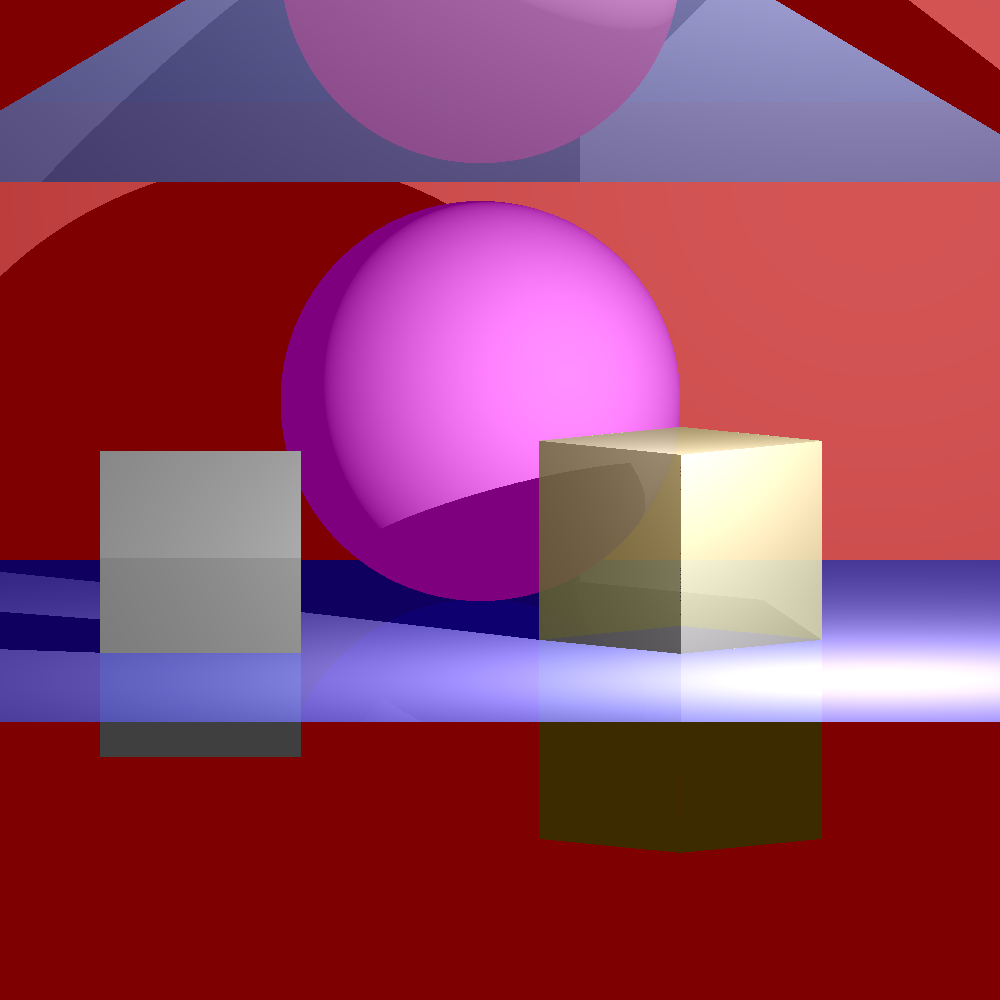
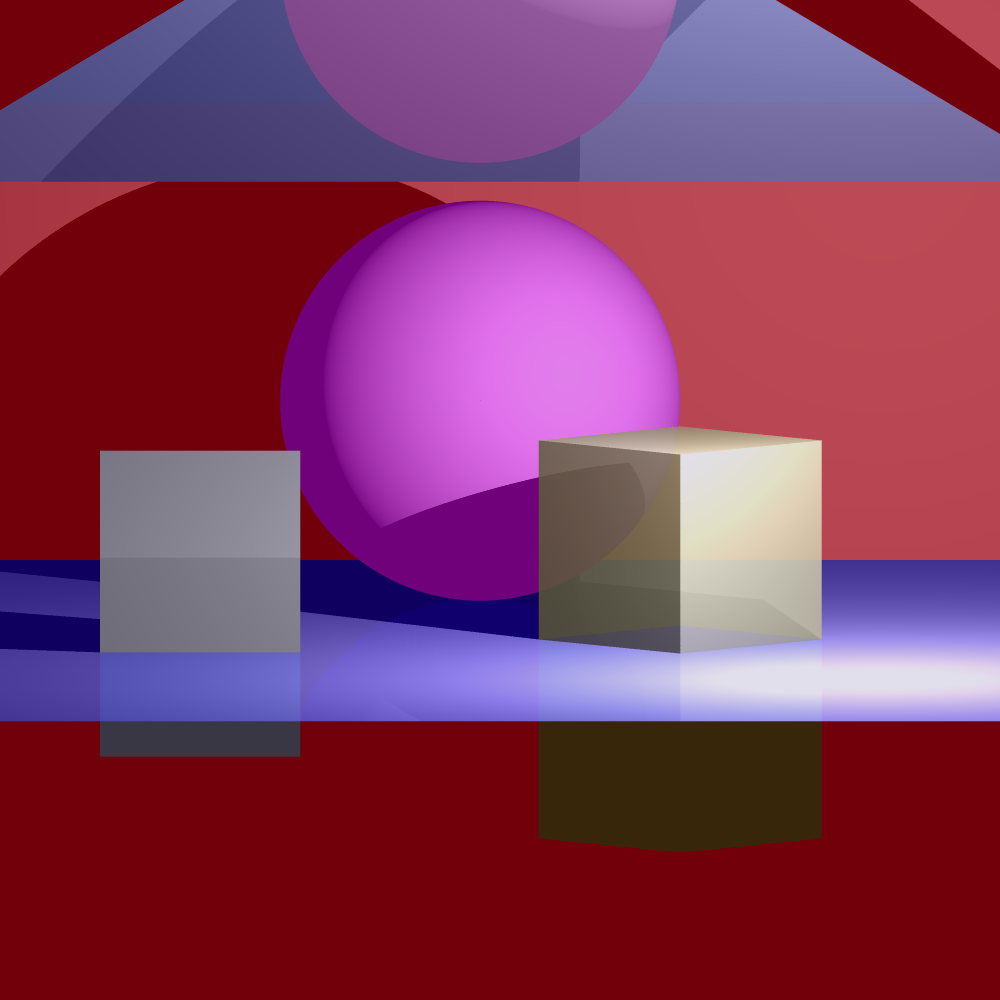
More images and some fixes to anti aliasing

Changed region(s): [[0.372, 0.155, 1.0, 0.713], [0.899, 0.0, 1.0, 0.062]]

diff --git a/src/main.cpp b/src/main.cpp
@@ -19,7 +19,7 @@ int main (int argc, char **argv) {
 
     // Setup the display and get the buffer
     Display* display = Display::getInstance();
-    display->init(1000, 1000);
+    display->init(500, 500);
     unsigned char* buf = display->getBuffer();
 
 
@@ -77,6 +77,30 @@ int main (int argc, char **argv) {
 
     // Specify the camera. Currently commenting/uncommenting 
     // until we get something more fancy
+    //
+
+    /*
+    PerspectiveCamera cam = PerspectiveCamera(
+        Vector3f(0, 5, -5),
+        Vector3f(0, 1.0, 0),
+        Vector3f(1.0, 0, 0),
+        Vector2f(25.0, 25.0),
+        Vector2f(display->getWidth(), display->getHeight()),
+        Vector3f(0, 5, -25)
+    );
+    */
+
+    PerspectiveCamera cam = PerspectiveCamera(
+        Vector3f(-10, 5, -5),
+        Vector3f(0, 1.0, 0),
+        Vector3f(1.0, 0, -1),
+        Vector2f(15.0, 15.0),
+        Vector2f(display->getWidth(), display->getHeight()),
+        Vector3f(-30, 5, -25)
+    );
+
+    /*
+    // Other angle
     PerspectiveCamera cam = PerspectiveCamera(
         Vector3f(10, 5, -5),
         Vector3f(0, 1.0, 0),
@@ -85,6 +109,7 @@ int main (int argc, char **argv) {
         Vector2f(display->getWidth(), display->getHeight()),
         Vector3f(30, 5, -25)
     );
+    */
     
     /*
     OrthoCamera cam = OrthoCamera(
@@ -109,7 +134,7 @@ int main (int argc, char **argv) {
 
         // If we have an anti aliaser, loop across all the rays from it, and do an intersection test
         // Otherwise just do it for the main ray
-        if(false) {
+        if(true) {
             for(anti_aliaser = new GridAntiAliaser(&it, 3); !anti_aliaser->isDone(); ++(*anti_aliaser)) {
                 IntersectData hit = renderRay(**anti_aliaser, &scene, 3);
                 count += 1;
@@ -131,10 +156,11 @@ int main (int argc, char **argv) {
             printf("%.3f\%\n",  i * 100.0 / (display->getWidth() * display->getHeight()));
     }
 
+    // Write to a PNG for handing
+    display->writeToPNG("images/mp1/anti_aliased.png");
+
     // Display the image
     display->run();
-    // Write to a PNG for handing
-    display->writeToPNG("images/mp1/other_angle.png");
     display->destory();
 
   return 0;

diff --git a/src/antialias.cpp b/src/antialias.cpp
@@ -13,6 +13,7 @@ GridAntiAliaser::GridAntiAliaser(const RayIterator* iter, int grid_size_):
 
 // Projects the current world coord through the camera
 Ray GridAntiAliaser::operator*() const {
+    Vector2f screen_cord = ray_iter->getScreenCord();
     return ray_iter->camera.project(world_cord);
 }
 
@@ -38,5 +39,41 @@ GridAntiAliaser& GridAntiAliaser::operator++() {
 // Checks if we are done rendering every subpixel
 bool GridAntiAliaser::isDone() {
     return screen_offset.x >= (1-1.0/grid_size) && screen_offset.y >= 1 - 1.0/grid_size;
+}
+
+// Grid antialias constructor
+RandomAntiAliaser::RandomAntiAliaser(const RayIterator* iter, int grid_size_, int num_samples_):
+        AntiAliaser(iter), grid_size(grid_size_), num_samples(num_samples_) {
+    assert(iter != NULL);
+}
+
+// Projects the current world coord through the camera
+Ray RandomAntiAliaser::operator*() const {
+    Vector2f screen_cord = ray_iter->getScreenCord();
+    return ray_iter->camera.project(world_cord);
+}
+
+// Creates the next coord in a grid like fasion
+RandomAntiAliaser& RandomAntiAliaser::operator++() {
+
+    // If we hit the right hand side of the pixel, loop left and move one down
+    if(screen_offset.x >= (1 - 1.0/grid_size)) {
+        screen_offset = Vector2f(0, screen_offset.y + 1.0 / grid_size);
+    } else {
+        screen_offset.x += 1.0 / grid_size;
+    }
+
+    // Translate the screen offset into a world offset based on the cameras basis vectors
+    Vector2f screen_cord = ray_iter->getScreenCord() + screen_offset;
+
+
+    Vector2f global_screen_offset = (screen_cord - (ray_iter->camera.resolution / 2));
+    world_cord = ray_iter->camera.location + (ray_iter->camera.right * global_screen_offset.x - ray_iter->camera.up * global_screen_offset.y);
+    return *this;
+}
+
+// Checks if we are done rendering every subpixel
+bool RandomAntiAliaser::isDone() {
+    return num_samples <= 0;
 }
 

diff --git a/include/antialias.h b/include/antialias.h
@@ -39,7 +39,7 @@ class AntiAliaser {
 class GridAntiAliaser : public AntiAliaser {
 
     private:
-        Vector2f world_cord;
+        Vector3f world_cord;
         Vector2f screen_offset;
         Ray primary_ray;
 
@@ -57,4 +57,28 @@ class GridAntiAliaser : public AntiAliaser {
 
 };
 
+/*
+ * An implementation of an antialiasing method
+ * Generates subrays using a random pixel in a grid
+ */
+class RandomAntiAliaser : public AntiAliaser {
+
+    private:
+        Vector3f world_cord;
+        Vector2f screen_offset;
+        Ray primary_ray;
+
+
+    public:
+        int grid_size;
+        int num_samples;
+
+        // Wraps a ray iterator. Will num sample rays in the grid
+        RandomAntiAliaser(const RayIterator* iter, int grid_size_, int num_samples);
+
+        Ray operator*() const override;
+        RandomAntiAliaser& operator++() override;
+        bool isDone() override;
+
+};
 #endif

diff --git a/src/vector.cpp b/src/vector.cpp
@@ -70,7 +70,7 @@ bool Vector2f::operator!=(const Vector2f& other) const {
 }
 
 void Vector2f::print(void) const {
-    printf("<%f %f>", x, y);
+    printf("<%f %f>\n", x, y);
 }
 
 // ------ Vector 3f -----

diff --git a/README.md b/README.md
@@ -17,7 +17,30 @@ by Kevin Palani
 
 
 ## MP1 Pictures
+The scene is composed of:
+- A solid pink sphere
+- A solid grey prism
+- A semitransparent yellow prism
+- A slightly reflective blue floor plane
+- A solid red background plane
+- A fully reflective triangle
 
+A perspective rendering on the scene:
 ![Perspective Camera](images/mp1/perspective.png)
+
+An orthographic rendering of the same scene. The camera is tilted slightly
+downwards to be able to see the blue plane. Since the plane passes through
+the viewplane, we are able to see underneath it.
 ![Orthographic Camera](images/mp1/ortho.png)
+
+A perspective rendering of the same scene, except of to the right
 ![Perspective Camera from another angle](images/mp1/other_angle.png)
+
+To show antialiasing, a zoomed in version of the scene at lower resolution
+is rendered:
+![Aliased](images/mp1/aliased.png)
+
+We can compare this to we antialiasing is enabled:
+![Anti Aliased](images/mp1/anti_aliased.png)
+
+
